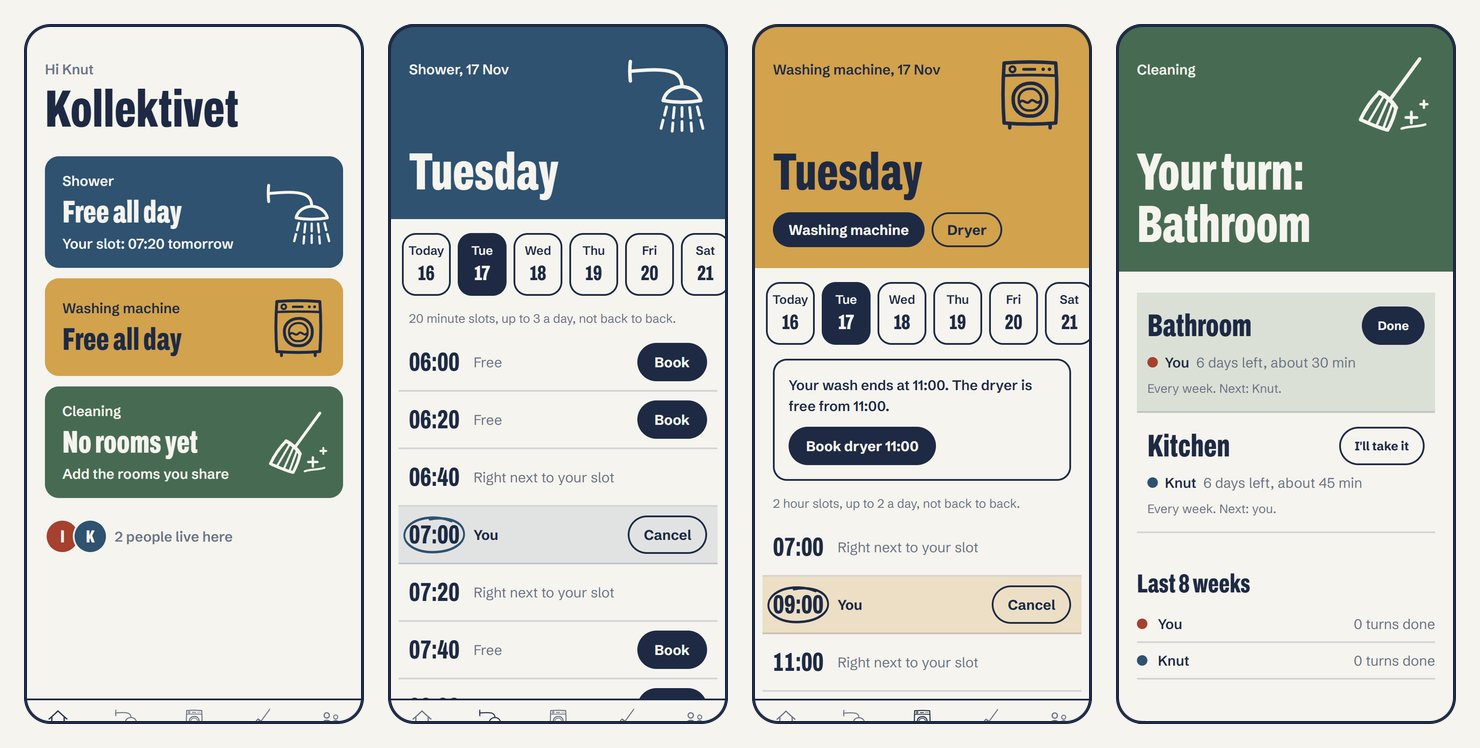
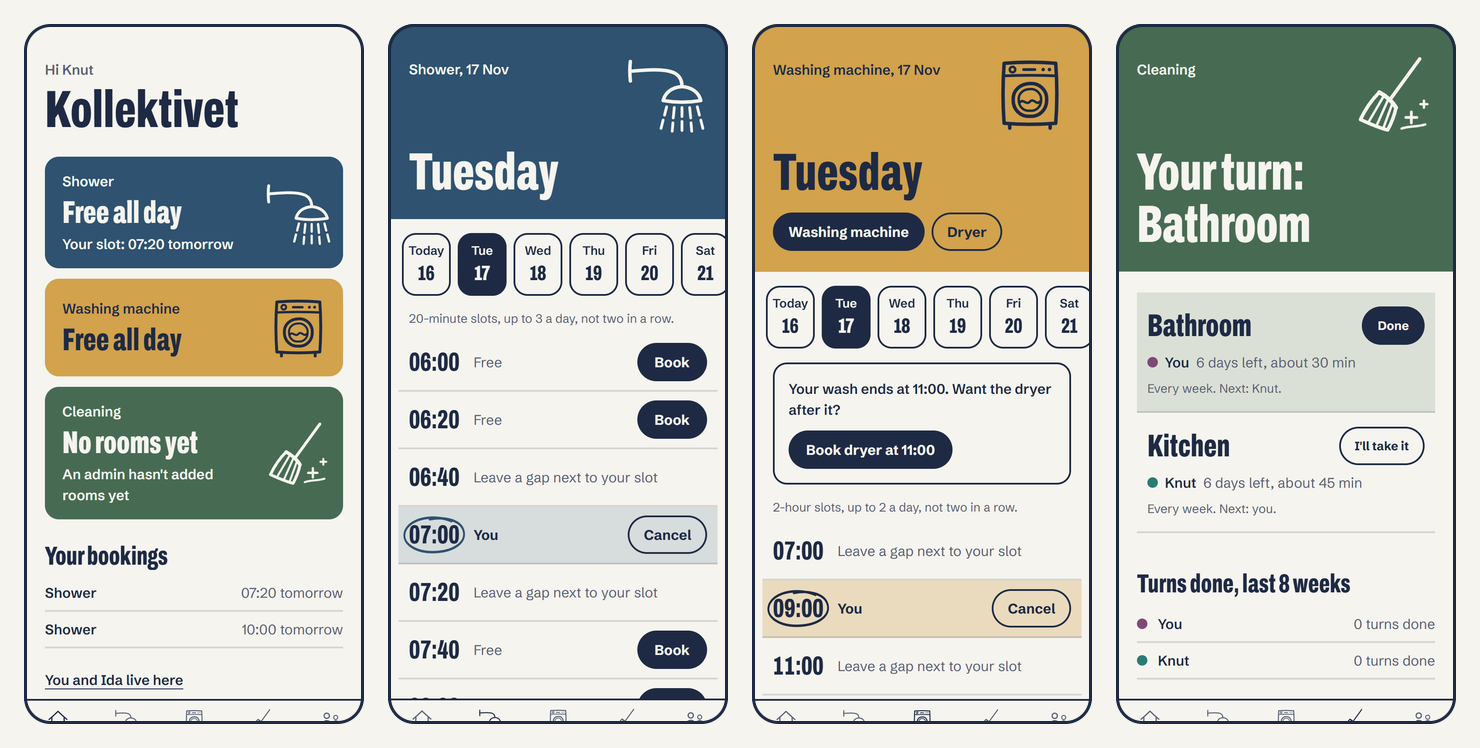
docs: update README and project notes after the two reviews
Describes the invite page, pinned cleaning turns, rate limits and locking, how the app was checked, and what is knowingly left undone. Refreshes the screenshots.

diff --git a/README.md b/README.md
@@ -14,7 +14,7 @@ Kubbe is a small web app for people who share a home. You book the shower and th
 
 ## What it does
 
-**Households.** You create an account, then start a household or join one. Whoever starts it is the admin and gets a six-character code and an invite link to share. Everything happens inside one household, and nothing is shared between households.
+**Households.** You create an account, then start a household or join one. Whoever starts it is the admin and gets a six-character code and an invite link to share. Someone opening the link sees which household they are invited to before being asked for anything. Everything happens inside one household, and nothing is shared between households.
 
 **Shower.** The day is cut into slots. You tap Book, and your time gets circled like on a paper sign-up sheet. You see who has which slot, and the headline tells you who is in there now or how long it is free.
 
@@ -27,13 +27,13 @@ Kubbe is a small web app for people who share a home. You book the shower and th
 - whether two slots in a row are allowed (off by default, so nobody camps in the bathroom)
 - how many days ahead you can book
 
-The server enforces all of it. If two people press Book on the same slot at the same moment, exactly one gets it and the other is told who did.
+The server enforces all of it. If two people press Book on the same slot at the same moment, exactly one gets it and the other is told who did. A slot that cannot be booked says why, and what to do instead.
 
-**Cleaning.** The admin adds rooms or chores, how often each is due and roughly how long it takes. Turns rotate between roommates in the order they joined, and each room starts one person further along so nobody gets everything in the same week. You mark your turn done, take over someone else's, or hand one back. A tally shows who has done how many turns in the last eight weeks.
+**Cleaning.** The admin adds rooms or chores, how often each is due and roughly how long it takes. Turns rotate between roommates in the order they joined, and each room starts one person further along so nobody gets everything in the same week. You mark your turn done, take over someone else's, or hand one back. When someone moves in or out, the turns already under way stay with whoever has them, and the new rotation starts with the next round. A tally shows who has done how many turns in the last eight weeks.
 
 **Home.** One screen says what matters right now: whether the shower is free, when your next slot is, and whether it is your turn to clean.
 
-**Household.** Admins rename the household, replace the join code, make others admin and remove people who moved out. Everyone can change their name and colour, or leave. A household always keeps at least one admin.
+**Household.** Admins rename the household, set its time zone, replace the join code, make others admin and remove people who moved out (which also replaces the code, since they knew it). Everyone can change their name and colour, or leave. Anything that removes something asks first, and a household always keeps at least one admin.
 
 ## How it is built
 
@@ -55,6 +55,8 @@ A few decisions worth knowing about:
 - **Rules are plain functions.** `src/lib/booking/rules.ts` and `src/lib/cleaning/rota.ts` have no database or framework in them, which is what makes them easy to test, including on the days the clocks change.
 - **The household comes from the session.** Every screen and action starts with `requireHousehold()`. Ids sent by the browser are looked up inside that household, so an id from another household finds nothing.
 - **Times are stored in UTC and shown in the household's time zone.**
+- **Guessing is slowed down.** Sign-in attempts, sign-ups and join-code tries are counted in the database and refused past a limit. After signing in, the only place the app will send you on to is an invite link.
+- **Changes to who lives where are atomic.** They lock the household first, so two people acting at once cannot, for example, both be the last admin to leave.
 
 ### Where things are
 
@@ -80,6 +82,7 @@ src/
     booking/         rules, service, server actions
     cleaning/        rota, service
     session.ts       who is asking, and which household they are in
+    rate-limit.ts    counting attempts at things that can be guessed
 design/logo/         the logo generator: the single source of the logo and app icons
 drizzle/             SQL migrations
 e2e/                 browser tests
@@ -138,6 +141,14 @@ The browser tests use the Edge that ships with Windows. They create accounts end
 
 Push to `main` and Vercel builds it. The production environment needs `DATABASE_URL` (set by the Neon integration) and `BETTER_AUTH_SECRET`. Run `npm run db:migrate` against the production database after a migration is added.
 
+To run the browser tests against a deployed site instead of your machine, set `E2E_BASE_URL`, for example `E2E_BASE_URL=https://your-site.example npm run test:e2e`.
+
+## How it was checked
+
+- **Unit tests** cover the booking rules (the slot grid, the daily cap, two in a row, the booking horizon, both clock-change days), the cleaning rota, the status lines, join codes, colours and the redirect guard.
+- **Browser tests** run whole stories at phone size with two or three people at once: signing up and joining by invite link, two roommates pressing Book on the same slot at the same moment, an admin changing the rules, washing then drying, the cleaning rota, removing someone, and leaving.
+- **Two independent reviews**, one for security and correctness and one for the experience of using it, were done before this version. Neither found a way for one household to see or change another's data. Most of what they did find is fixed; what is left is listed under "Not done yet".
+
 ## Design
 
 The look is deliberate, and recorded in [CLAUDE.md](CLAUDE.md):
@@ -150,10 +161,12 @@ The look is deliberate, and recorded in [CLAUDE.md](CLAUDE.md):
 ## Not done yet
 
 - **Google sign-in.** Needs credentials from a Google Cloud project.
-- **Password reset and verified email addresses.** Both need the app to send email, which needs a domain.
+- **Password reset and verified email addresses.** Both need the app to send email, which needs a domain. Until then a forgotten password cannot be recovered, which is why password fields have a Show button.
 - **Reminders.** For example "your wash is done" or "your shower slot starts in ten minutes".
 - **Repeating bookings.** For example the same shower slot every weekday.
 - **A separate database for local work and tests.**
+- **An admin cancelling someone else's booking,** for the roommate who booked and then left town.
+- **Known limits.** Signing up tells you whether an email already has an account. Join codes are six characters and do not expire, though guessing them is rate limited and an admin can replace one at any time. Clock-change days are only verified for Europe/Oslo with the default opening hours.
 - **Norwegian.** The interface is in English, with the text kept close to the screens so it can be translated.
 - **Add-ons a household can switch on:** a shared shopping list, and dinner suggestions that roommates vote on, which then produce a shopping list and say who is responsible.
 

diff --git a/CLAUDE.md b/CLAUDE.md
@@ -82,6 +82,14 @@ Package manager is npm. Keep this list current as scripts are added.
 - **No double booking.** The database rejects overlapping bookings for the same resource with a constraint, as the last line of defence.
 - **Time.** Store timestamps in UTC. Each household has a time zone, and all slot maths happens in that zone.
 - **Secrets.** Never commit `.env` files, keys, or tokens. No fallback secrets in code: a missing secret is a startup error. Only `.env.example` with empty values is committed.
+- **Who lives where changes under a lock.** Joining, leaving, removing someone and changing a role each start with `lockHousehold(tx, id)` inside one transaction. Without it, two people pressing at once can both pass a check only one should (the last two admins both leaving).
+- **Removing someone replaces the join code.** They know the old one.
+- **Cleaning turns under way do not move.** Before anything that shifts the rotation (someone joins or leaves, a room is removed), call `pinCurrentTurns(tx, householdId, today)` in the same transaction.
+- **An action applies to what was on screen.** Cleaning actions carry the period the person was looking at and do nothing if a new one has started. Booking actions carry the exact slot start.
+- **Guessable things are rate limited.** Sign-in, sign-up, join attempts and invite-link lookups go through `allowAttempt` in `src/lib/rate-limit.ts`. The limits are active in production only.
+- **Redirects after signing in go through `safeNextPath`,** which accepts only an invite link. Never redirect to a path taken from the URL any other way.
+- **There is no public auth route.** All sign-in and sign-up goes through server actions, which validate and rate limit. Google sign-in will need `/api/auth` back: when adding it, also add name validation in the auth library's database hooks and database-backed rate limiting there.
+- **Server actions validate every argument,** including ones bound on the server such as a member id or a role. They arrive from the browser like any other input.
 
 ## Design
 
@@ -135,6 +143,14 @@ The three room drawings are the `RoomArt` component (`src/components/illustratio
 
 **Screenshots.** The browser tests save phone-sized screenshots of every screen to `test-shots/` (ignored by git). Look at them after changing a screen.
 
+**People have their own colours.** `MEMBER_COLOURS` never contains a room colour or `barn`, so a dot beside a name never reads as a room. Every one of them carries paper-coloured text at readable contrast; a unit test checks both.
+
+**Contrast and focus.** Secondary text is `ink-soft` (#586072), chosen to pass 4.5:1 on paper and on the tinted rows. Focus rings are solid `ring-fjord` (or `ring-ink` on a coloured band), never a faint tint.
+
+**Wording that is settled.** "Two in a row" (not "back to back"). Slot lengths through `describeSlotLength`: "20-minute slots", "2-hour slots". A blocked slot says "Leave a gap next to your slot". Buttons that save say "Save". The sentence on the front page is the owner's own wording: do not rewrite it.
+
+**Confirming.** Anything that removes or replaces goes through `ActionButton` with `confirm` worded as what will happen ("Remove Knut and cancel their bookings?"). It shows a "Keep as it is" button beside the question.
+
 **No CSS Modules.** The Tailwind rule in `next.config.ts` treats every `.css` file as global, so `*.module.css` imports come back empty and the styles silently do not apply. Use Tailwind utilities, or a plain `.css` file with prefixed class names (see `src/components/logo/kubbe-logo.css`).
 
 **Stroke-drawing gotcha.** A path with round caps that is fully dashed out still shows a dot at its start. Keep each stroke invisible (`stroke-opacity: 0`) until its own animation begins.
@@ -153,11 +169,23 @@ Standing brief:
 
 ## Open items
 
-Agreed but not done yet. Remove each when it ships.
+Agreed or suggested, not done yet. Remove each when it ships.
 
-- Google sign-in. The user wants to be walked through the Google Cloud setup step by step.
-- A domain, then email sending: password reset and verified addresses depend on it.
-- A separate Neon branch for local work and tests. The database is in US East while the users are in Norway; moving it to an EU region would also make local work much faster.
+Needs the owner:
+
+- Google sign-in. He wants to be walked through the Google Cloud setup step by step. Before turning it on, check how the auth library links a Google login to an existing password account whose email was never verified.
+- A domain, then email sending. Password reset and verified addresses depend on it. Until then a forgotten password cannot be recovered, and sign-up tells you whether an email already has an account.
+- A separate Neon branch for local work and tests. The browser tests run against the live database. The database is in US East while the users are in Norway; an EU region would also make local work much faster.
+
+Can be built any time:
+
 - Reminders (web push), repeating bookings, Norwegian.
 - Add-ons: shared shopping list; dinner suggestions with voting.
-- Live site: https://kubbe-zeta.vercel.app
+- An admin cancelling someone else's booking, for the roommate who booked and left town.
+- Telling a removed person why they landed on the start screen (leaving on your own already says so).
+- A squiggle under "You" on a booked slot, from the first design sketch.
+- Longer or expiring join codes, and a content security policy beyond `frame-ancestors`.
+- Refusing duplicate room names. Keeping the eight-week cleaning tally when a room's rhythm changes.
+- Clock-change days are only verified for Europe/Oslo with the default hours. Zones that change at midnight, and households open before 03:00, have known rough edges on those two days.
+
+Live site: https://kubbe-zeta.vercel.app
